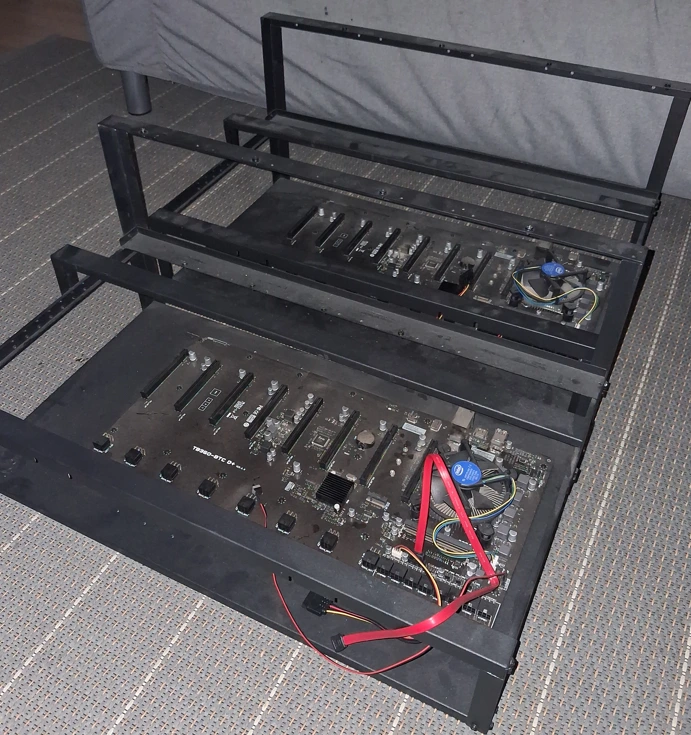
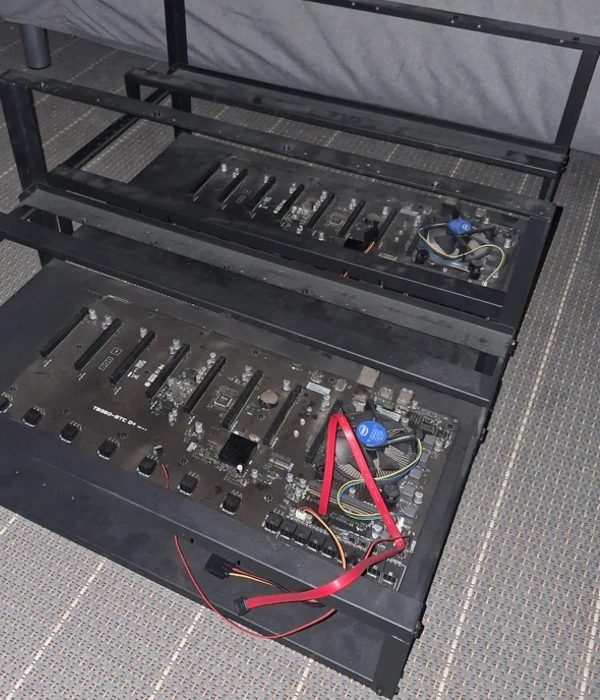
Add files via upload

diff --git a/index.html b/index.html
@@ -22,26 +22,32 @@
     <script async src="https://www.googletagmanager.com/gtag/js?id=G-RZLW6M7LE5"></script>
     
     <script>
+
         window.dataLayer = window.dataLayer || [];
         function gtag(){dataLayer.push(arguments);}
         gtag('js', new Date());
 
         gtag('config', 'G-RZLW6M7LE5');
+
     </script>
 
     <!-- Google Ads -->
     <script 
+
         async src="https://pagead2.googlesyndication.com/pagead/js/adsbygoogle.js?client=ca-pub-4917376890892014"
         crossorigin="anonymous">
+
     </script>
 
     <script type="application/ld+json">
+
         {
             "@context": "https://schema.org",
             "@type": "WebSite",
             "name": "OPTMZ",
             "url": "https://optmz.tech/"
         }
+
     </script>
 
 </head>
@@ -57,9 +63,7 @@
 
         <a href="#hashing"><button class="menu-button">Hashpower providing</button></a>
 
-        <a href="#links"><button class="menu-button">Links</button></a>
-
-        <a href="#donate"><button class="menu-button">Donate Bitcoin</button></a>
+        <a href="#links_donate"><button class="menu-button">Links / Donate</button></a>
 
         <a href="https://bitcoinaio.com/"><button class="menu-button">BitcoinAIO</button></a>
         
@@ -118,8 +122,10 @@
             </div>
 
             <p class="text">
+
                 I've built and optimized 10+ PCs and 2 hashing rigs with great success over the past 5 years.
                 I've also sold 5+ PCs with a 100% approval rate.
+
             </p>
 
     </section>
@@ -130,6 +136,7 @@
         <h2>OPTMZR</h2>
 
         <h3>OPTMZR is a simple Windows optimization tool I built with python.</h3>
+
             <img src="material/optmzr.png" class="image no-shadow" alt="OPTMZR - Simple Windows Optimization tool I built with Python">
             
             <a class="download-link" href="downloads/optmzr0.8.exe" download>
@@ -189,8 +196,10 @@
             </div>
 
             <p class="text">
+
                 Prerequisites: <a class="link" href="https://code.visualstudio.com/download" target="_blank" rel="noopener noreferrer">MS Visual Studio Code</a>,
                 <a class="link" href="https://www.python.org/downloads/" target="_blank" rel="noopener noreferrer">Python (3.14.5)</a>
+
             </p>
 
     </section>
@@ -201,19 +210,21 @@
         <h2>Hashpower providing</h2>
 
             <p class="text">
+
                 I first started providing hashpower in late 2020.
                 I used <a class="link" href="https://www.nicehash.com/" target="_blank" rel="noopener noreferrer">Nicehash</a> and hashed
                 with a <a class="link" href="https://www.techpowerup.com/gpu-specs/sapphire-gtx-1070-oem.b6203" target="_blank" rel="noopener noreferrer">Sapphire OEM GTX 1070</a>.
                 By 2023 I had 2 full hashing rigs with a total of 13 high-end GPUs hashing algorithms like Ethash and Ergo
                 on <a class="link" href="https://unmineable.com/" target="_blank" rel="noopener noreferrer">unMineable</a> 24/7 (50kWh/day).
+
             </p>
 
-            <img class="hash" src="material/rig1.webp" alt="hash.png">
+            <img src="material/rig1.webp" class="image" alt="Hashing rig #1 and #2">
 
     </section>
         
     
-    <section class="content-section" id="links">
+    <section class="content-section">
 
         <h2>Links</h2>
 
@@ -228,7 +239,7 @@
     </section>
 
 
-    <section class="content-section" id="donate">
+    <section class="content-section" id="links_donate">
 
         <h2>Donate</h2>
 

diff --git a/style.css b/style.css
@@ -43,7 +43,6 @@ body {
     color:chartreuse;
     transition: all .25s;
     box-shadow: 0 4px 15px rgba(0, 0, 0, 0.3);
-
     font-size: 28px;
     padding: 14px 28px;
 }
@@ -89,13 +88,6 @@ body {
     z-index: 1;
 }
 
-.hash {
-    margin-top: 40px;
-    border-radius: 250px;
-    box-shadow: 0 4px 15px rgba(0, 0, 0, 0.3);
-}
-
-
 .script {
     margin-top: 50px;
     margin-bottom: 100px;
@@ -108,7 +100,7 @@ body {
 
 .no-shadow {
     box-shadow: none;
-}   
+}
 
 .link-tab {
     display: flex;